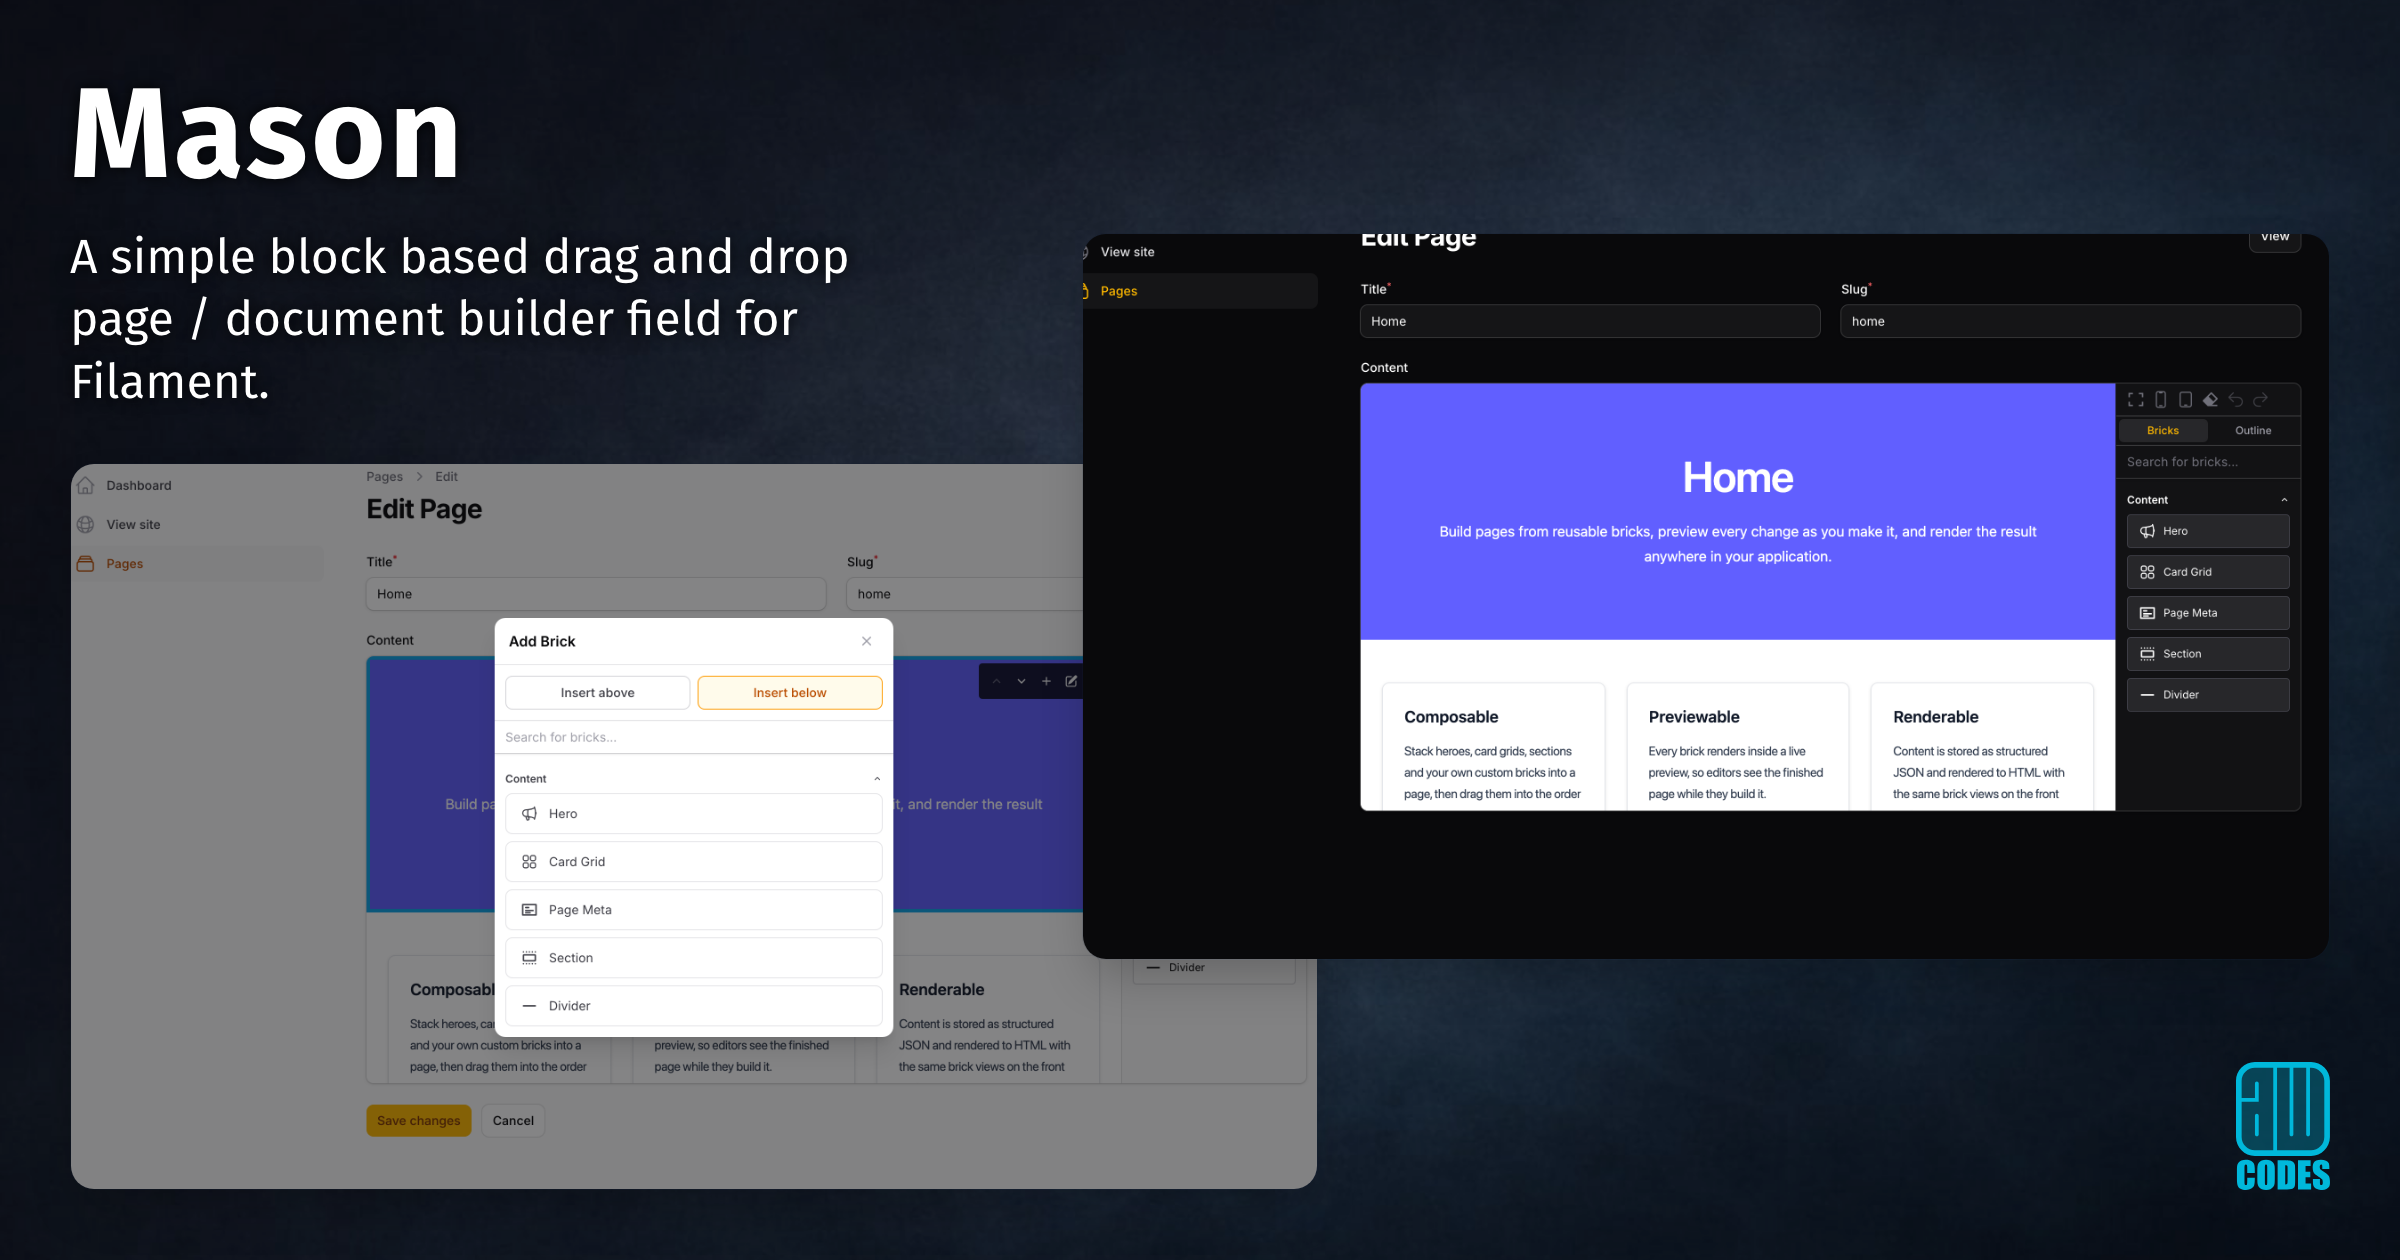
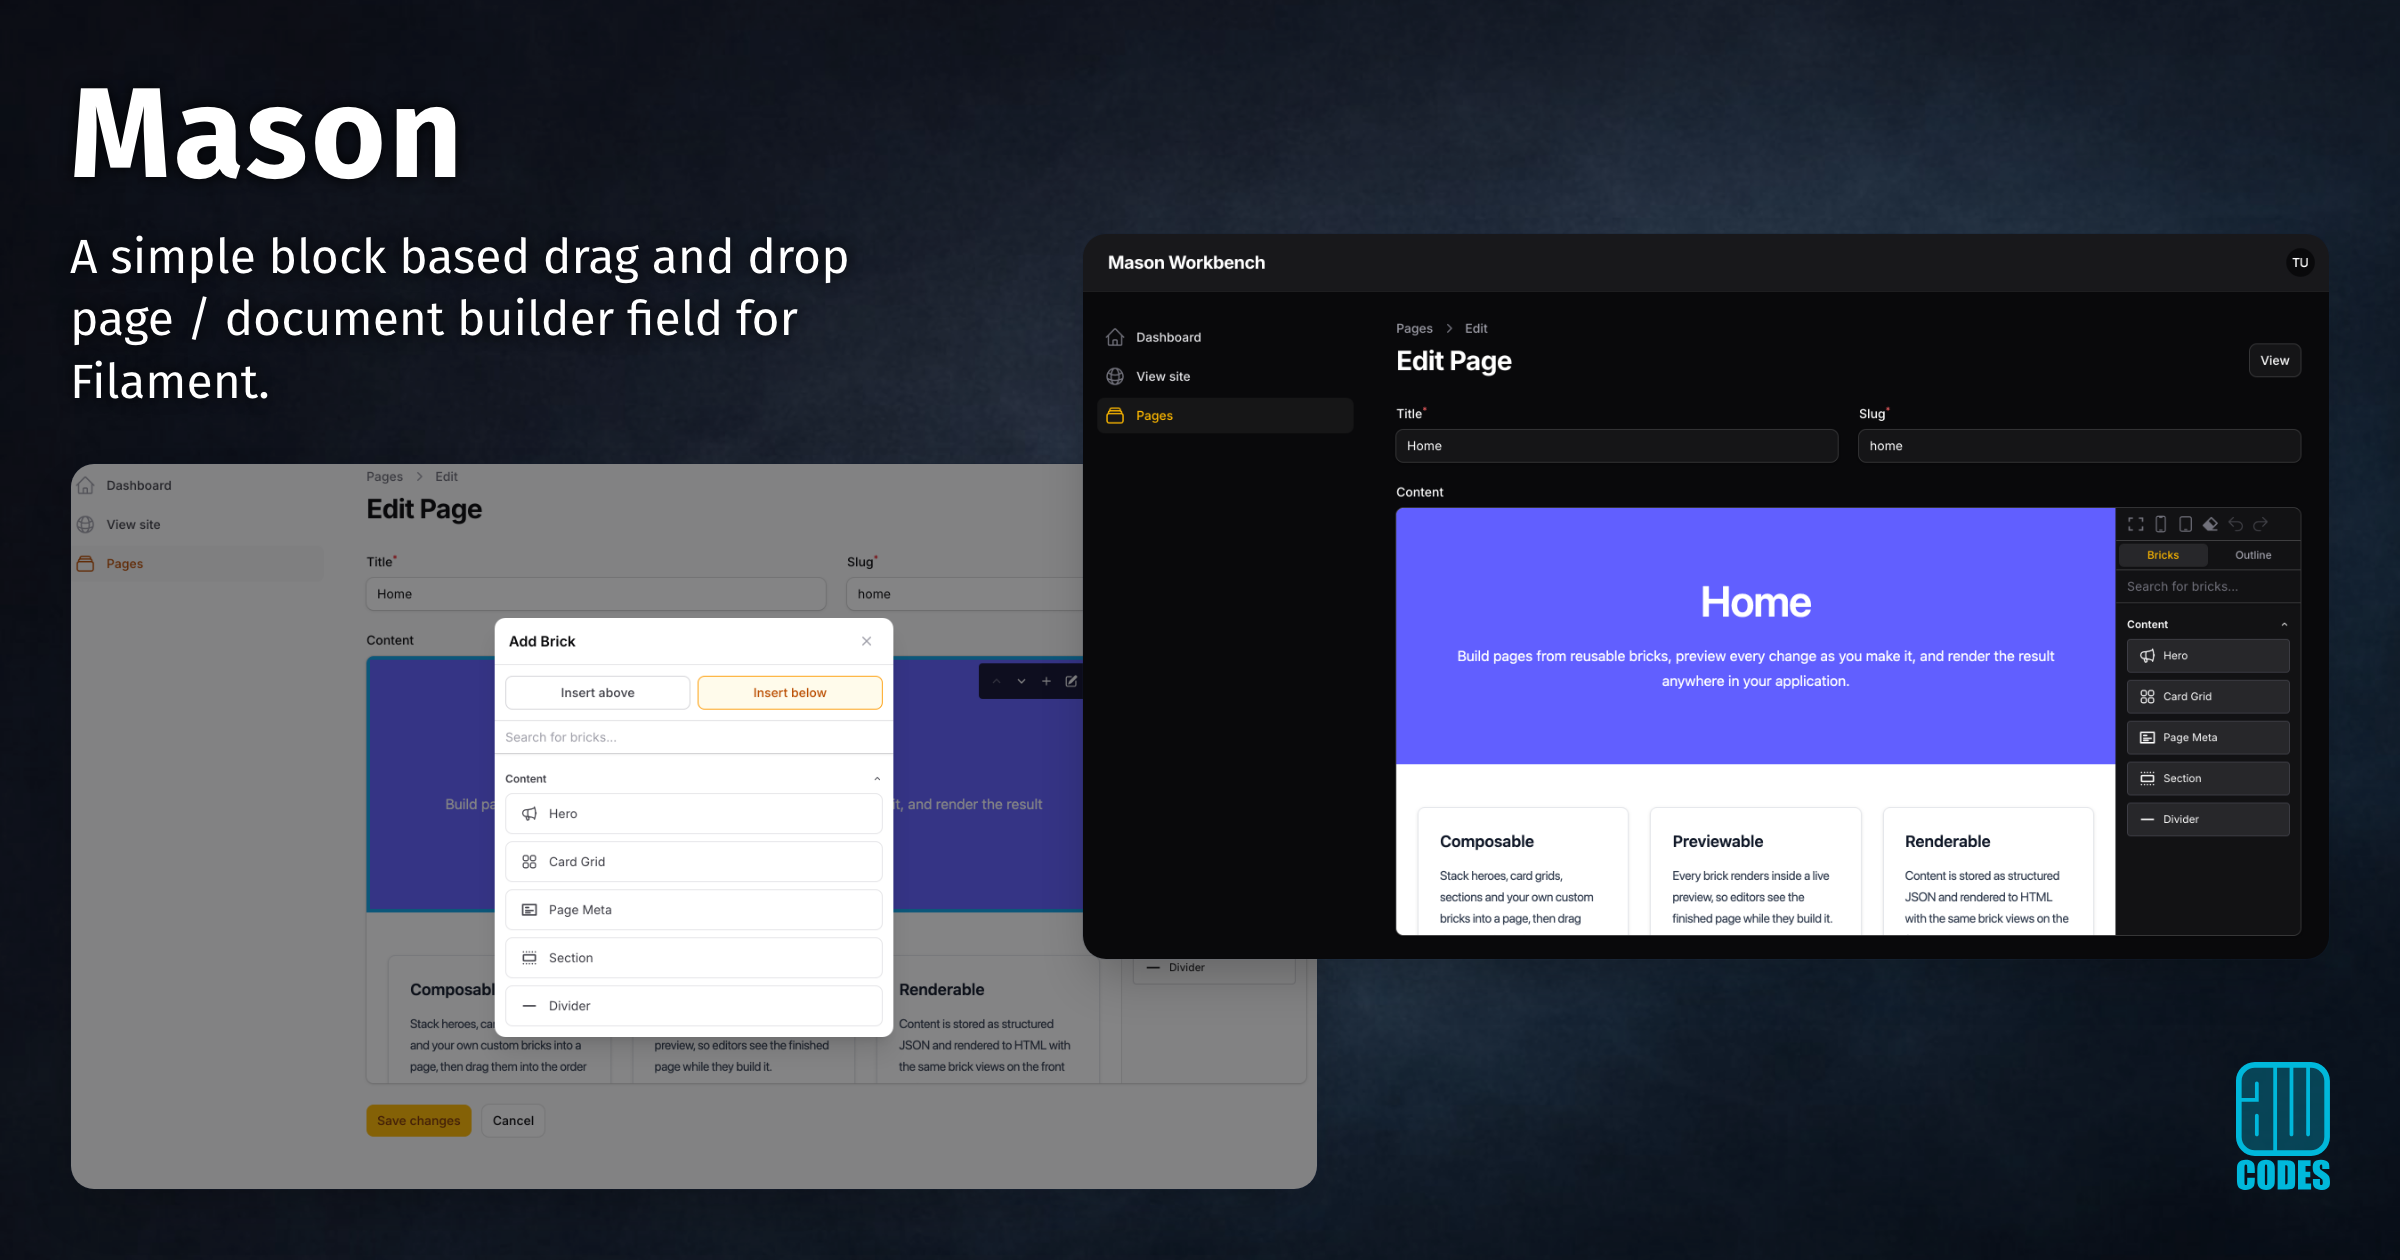
chore: frame the card editor screenshot from the top of the page
Centring a 1400x816 region on the editor cut through the Edit Page
heading. The card screenshot is now the top of the page in a 1400x816
viewport, with the form actions hidden, so the heading, fields, and
editor are all whole. All four cards are regenerated.

diff --git a/focus.php b/focus.php
@@ -77,11 +77,12 @@ return ScreenshotSuite::make()
 
         // Share-image sources: the editor and the brick picker, shaped to the card templates' screenshot slots.
         // The two-up templates show the editor dark and the brick picker light, so the picker is captured in both.
+        // The whole top of the page at the slot's shape, so the heading is never cut; centring on the editor was.
         Screenshot::make('card-editor')
+            ->viewportSize(...$cardSlot)
             ->visit('/admin/pages/1/edit')
             ->hide($formActions)
-            ->focus('[data-focus="mason-editor"]')
-            ->minSize(...$cardSlot)
+            ->viewport()
             ->themes([Theme::Dark]),
 
         Screenshot::make('card-brick-picker')
